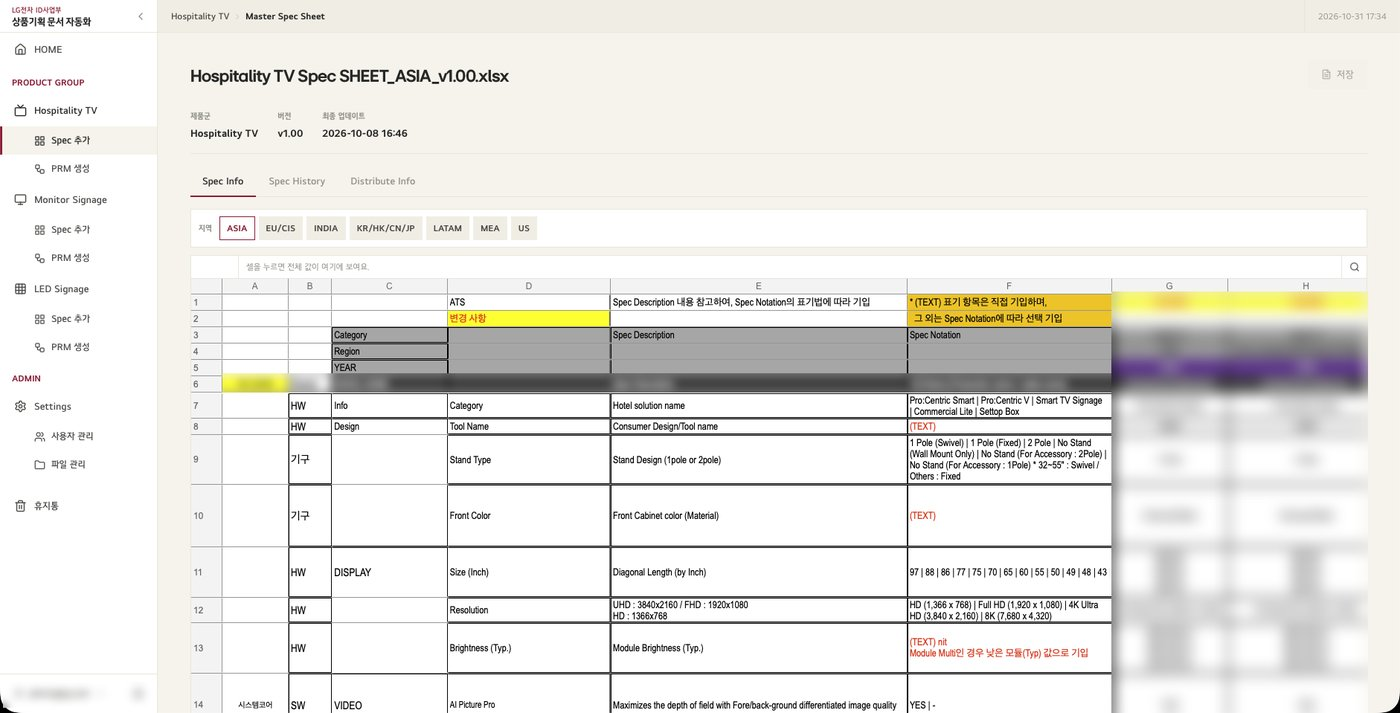
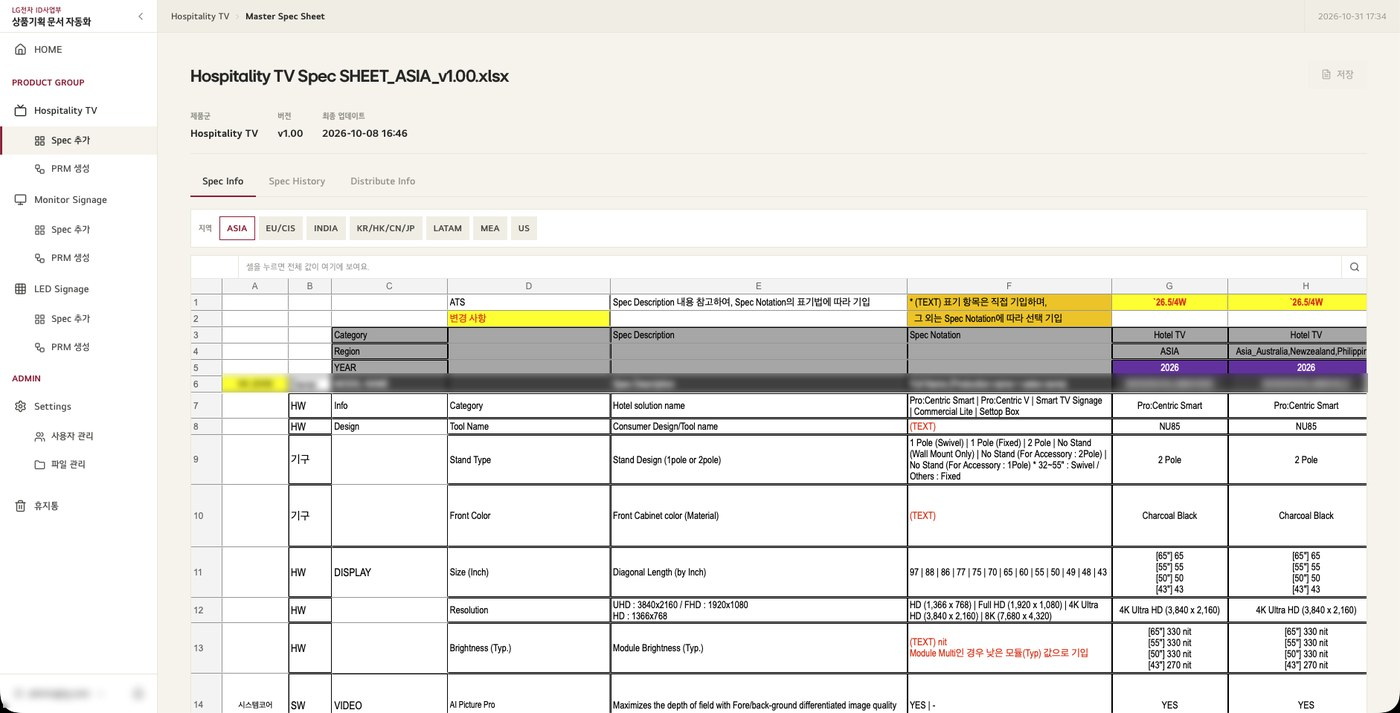
Rewrite project overviews in plain language, re-mask LG screenshots
- Overviews: short sentences on who had what problem and what was wanted
- LG screens: layout, lanes and legend visible; only model names,
  dates and strategy text blurred

Changed region(s): [[0.7679, 0.4011, 0.9829, 1.0], [0.9214, 0.9874, 0.9521, 1.0], [0.8293, 0.9874, 0.86, 1.0]]

diff --git a/src/App.js b/src/App.js
@@ -242,8 +242,8 @@ function App() {
   const projectMeta = {
     kdlProductPlanning: {
       problem: {
-        ENG: "Planners re-typed specs by hand from review decks in mixed formats (slide text, tables, embedded Excel; up to 8 models per deck) into large region-specific master spec sheets, then redrew product roadmaps manually.",
-        KOR: "상품기획 실무자가 형식이 제각각인 검토의뢰서(슬라이드 글·표·첨부 엑셀, 한 문서에 모델 최대 8개)의 스펙을 지역별 대형 마스터 스펙시트에 손으로 옮기고, 제품 로드맵도 수작업으로 그리고 있었음.",
+        ENG: "LG Electronics planners copied specs from review decks into master spec sheets by hand, then drew product roadmaps by hand too. One deck could cover up to 8 models, spread across slides, tables and attached Excel files.",
+        KOR: "LG전자 상품기획팀은 검토의뢰서(PPT)의 스펙을 마스터 스펙시트에 손으로 옮겨 적고, 제품 로드맵도 직접 그렸습니다. 문서 하나에 모델이 최대 8개, 형식도 슬라이드·표·첨부 엑셀로 제각각이었습니다.",
       },
       team: { ENG: "Small team — teammates on frontend; all AI development by me", KOR: "소규모 팀 — 프론트엔드는 팀원, AI 개발은 전부 본인" },
       role: {
@@ -266,8 +266,8 @@ function App() {
     },
     kdlDocExtraction: {
       problem: {
-        ENG: "20 years of quality and process knowledge sat in thousands of free-form Excel/PPT/PDF files (Korean, English, Chinese, some scanned) that could not be searched; the client needed DB-ready data on an offline server, at accuracy verified against its own audit ledger.",
-        KOR: "20년 치 품질·공정 지식이 양식이 제각각인 엑셀·PPT·PDF 수천 건(국·영·중, 스캔 포함)에 묶여 검색이 불가능했음. 고객은 폐쇄망 서버에서, 자체 검수 대장으로 검증된 정확도의 DB 적재용 데이터를 요구.",
+        ENG: "Seoyon E-Hwa had 20 years of quality and process know-how scattered across thousands of Excel, PPT and PDF files that nobody could search. They wanted it turned into database-ready data on an offline server, with accuracy proven against their own audit ledger.",
+        KOR: "서연이화의 20년 치 품질·공정 노하우가 엑셀·PPT·PDF 수천 건에 흩어져 있어 검색이 안 됐습니다. 이를 폐쇄망 서버에서 DB에 넣을 수 있는 데이터로 바꾸고, 고객 검수 대장 기준으로 정확도를 증명해야 했습니다.",
       },
       team: { ENG: "Solo", KOR: "단독" },
       role: {
@@ -294,8 +294,8 @@ function App() {
     },
     kdlGaugeReading: {
       problem: {
-        ENG: "Analog gauges at manufacturing sites had to be read by people in person, so they could not be monitored continuously; the goal was to read gauge state automatically from the CCTV cameras already installed.",
-        KOR: "제조 현장의 아날로그 계기판은 사람이 직접 보고 값을 확인해야 해서 상시 모니터링이 어려웠음. 이미 설치된 CCTV 영상만으로 계기판 상태를 자동으로 읽어내는 것이 목표.",
+        ENG: "Someone had to walk up to each analog gauge to read it, so nobody could watch them around the clock. The goal was to read the gauges automatically from the CCTV cameras already on site.",
+        KOR: "현장의 아날로그 계기판은 사람이 직접 가서 봐야 해서 24시간 지켜볼 수 없었습니다. 이미 달려 있는 CCTV로 계기판 값을 자동으로 읽는 게 목표였습니다.",
       },
       team: {
         ENG: "Solo",
@@ -325,8 +325,8 @@ function App() {
     },
     kdlOcrResearch: {
       problem: {
-        ENG: "The deployed recognizer read only 68.63% of real handwritten form fields exactly, often confusing look-alike characters (0/ㅇ/O, ㄷ/ㄹ, l/ㅣ/1), and there was no trustworthy benchmark for real handwriting to measure improvements against.",
-        KOR: "배포 중이던 Recognizer는 실제 고객 서식의 필기체를 정확히 읽는 비율이 68.63%에 그쳤고, 0/ㅇ/O, ㄷ/ㄹ, l/ㅣ/1 같은 닮은 글자를 자주 혼동. 개선을 측정할 믿을 만한 실제 필기체 평가셋도 없었음.",
+        ENG: "The OCR model in production read only 68.63% of real handwritten form fields correctly and often mixed up look-alike characters such as 0/ㅇ/O. There was also no reliable handwriting test set to measure progress against.",
+        KOR: "운영 중인 OCR 모델은 실제 손글씨 서식을 68.63%만 정확히 읽었고, 0/ㅇ/O처럼 비슷한 글자를 자주 헷갈렸습니다. 개선 정도를 잴 만한 실제 손글씨 평가셋도 없었습니다.",
       },
       team: { ENG: "2 people", KOR: "2명" },
       role: {
@@ -353,8 +353,8 @@ function App() {
     },
     kdlDisasterVideo: {
       problem: {
-        ENG: "Detection models need footage of wildfires and floods at the moment they start, but real CCTV rarely captures the onset; the client needed natural, progressing disaster videos generated from real CCTV stills, at volume, within 9 days.",
-        KOR: "탐지 모델에는 산불·침수가 '시작되는 순간'의 영상이 필요하지만 실제 CCTV에는 거의 없음. 고객은 실제 CCTV 사진을 기반으로 자연스럽게 진행되는 재난 영상을 9일 안에 대량으로 요구.",
+        ENG: "Wildfire and flood detectors need footage of the moment a disaster starts, and real CCTV almost never captures it. The client wanted a large batch of realistic videos made from their own CCTV stills, within 9 days.",
+        KOR: "산불·침수 탐지 모델을 학습하려면 재난이 막 시작되는 장면이 필요한데, 실제 CCTV에는 거의 남아 있지 않습니다. 고객은 자기 CCTV 사진으로 자연스러운 재난 영상을 9일 안에 대량으로 만들어 달라고 했습니다.",
       },
       team: { ENG: "Solo", KOR: "단독" },
       role: {
@@ -381,8 +381,8 @@ function App() {
     },
     sense1Vet: {
       problem: {
-        ENG: "Heart-rate readings from the wearable's BCG sensor became unreliable whenever the dog trembled or moved, and an ECG reference is not available in everyday use.",
-        KOR: "웨어러블 BCG 센서의 심박 측정이 강아지가 떨거나 움직이면 불안정해졌고, 일상 사용 환경에서는 기준이 될 ECG 신호도 없었음.",
+        ENG: "The collar's heart-rate reading broke down whenever the dog shivered or moved, and at home there is no ECG to check it against.",
+        KOR: "강아지가 떨거나 움직이면 목걸이의 심박 측정값이 크게 흔들렸고, 집에서는 비교할 ECG도 없었습니다.",
       },
       team: { ENG: 'Solo on the algorithm, working with the hardware and production teams', KOR: '알고리즘 단독, 하드웨어·생산팀과 협업' },
       role: { ENG: 'AI/ML Engineer — sole developer of the heart-rate algorithm', KOR: 'AI/ML 엔지니어 — 심박 알고리즘 단독 개발' },
@@ -402,8 +402,8 @@ function App() {
     },
     lawIntelligence: {
       problem: {
-        ENG: "General-purpose LLMs answer Korean legal questions without grounding in actual statutes and precedents, so their citations cannot be verified.",
-        KOR: "범용 LLM은 실제 법령·판례에 근거하지 않고 한국 법률 질문에 답해, 인용의 출처를 검증할 수 없었음.",
+        ENG: "General chatbots answer Korean legal questions without pointing to real laws or court cases, so there is no way to check where an answer came from.",
+        KOR: "일반 챗봇은 실제 법령·판례 없이 법률 질문에 답해서, 답의 근거를 확인할 수 없었습니다.",
       },
       team: { ENG: '5 members', KOR: '5명' },
       role: { ENG: 'Team Lead', KOR: '팀장' },
@@ -455,8 +455,8 @@ function App() {
     },
     shinhanVietnam: {
       problem: {
-        ENG: "At Shinhan Vietnam Finance (SVFC), loan underwriters checked applicants' national ID cards (CCCD) against their bank statements by eye and re-typed the values by hand — slow, with omissions and typos. The PoC goal: one upload that classifies, extracts and validates the documents and returns a first-pass screening result (valid/invalid, reason, problem fields), with the final decision left to the underwriter.",
-        KOR: "신한베트남파이낸스(SVFC) 대출 심사역이 신청자의 시민증(CCCD)과 은행거래명세서 값을 눈으로 대조하고 손으로 옮겨 적어 느리고 누락·오타가 발생. PoC 목표: 업로드 한 번으로 분류·추출·검증까지 자동화해 1차 스크리닝 결과(유효/무효, 사유, 문제 필드)를 제공하고 최종 판단은 심사역이 하는 구조.",
+        ENG: "Loan underwriters at Shinhan Vietnam Finance compared each applicant's ID card and bank statement by eye and typed the numbers in by hand. It was slow, and mistakes slipped through. The PoC goal: upload the documents once and get a first screening result with reasons, while the underwriter still makes the final call.",
+        KOR: "신한베트남파이낸스 대출 심사역은 신청자의 신분증과 은행거래명세서를 눈으로 비교하고 숫자를 손으로 옮겨 적었습니다. 느리고 실수도 잦았습니다. 서류를 한 번 올리면 이유와 함께 1차 심사 결과가 나오고, 최종 판단은 심사역이 하도록 만드는 게 PoC 목표였습니다.",
       },
       team: {
         ENG: "Korea Deep Learning — I ran the PoC as PM and sole developer, on top of the in-house IDP platform (PPASS)",
@@ -496,8 +496,8 @@ function App() {
     },
     kdigitalHackathon: {
       problem: {
-        ENG: "Reporting reckless driving meant finding the right dashcam clip yourself and typing the plate, location and violation by hand.",
-        KOR: "난폭운전을 신고하려면 블랙박스 영상을 직접 찾아 차량번호·위치·위반 유형을 손으로 입력해야 했음.",
+        ENG: "To report reckless driving, you had to dig up the dashcam clip yourself and type in the plate number, place and violation.",
+        KOR: "난폭운전을 신고하려면 블랙박스 영상을 직접 찾아서 차량번호·장소·위반 내용을 일일이 입력해야 했습니다.",
       },
       team: { ENG: '6 members (Team Road Guardian)', KOR: '6명 (팀 Road Guardian)' },
       role: { ENG: 'Object-detection model & data', KOR: '객체 인식 모델·데이터 담당' },
